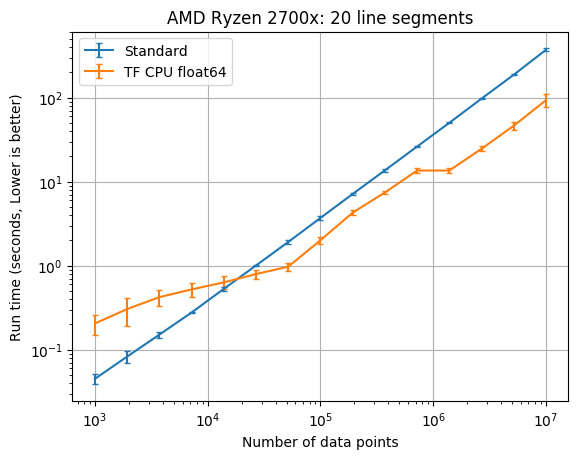
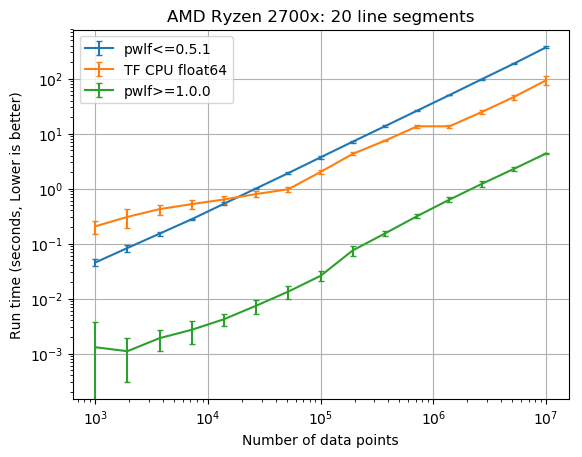
add initial new pwlf benchamrks

Changed region(s): [[0.0, 0.0, 0.9914, 0.9803], [0.0, 0.1838, 0.031, 0.4289], [0.6506, 0.4902, 0.6816, 0.5208]]

diff --git a/plot_results/compare_sp_ryzen_new.py b/plot_results/compare_sp_ryzen_new.py
@@ -1,0 +1,39 @@
+import numpy as np
+import matplotlib.pyplot as plt
+
+# factor for 90% coverage with 90% confidence using Normal distribution
+# with 10 samples from table XII in [1]
+# [1] Montgomery, D. C., & Runger, G. C. (2014). Applied statistics and
+# probability for engineers. Sixth edition. John Wiley & Sons.
+k = 2.535
+
+run_times = np.load('../bench_run_times/amd_ryzen_2700x/6_break_times.npy')
+n = np.load('../bench_run_times/amd_ryzen_2700x/n.npy')
+run_times1 = np.load('../bench_run_times/amd_ryzen_2700x/new_6_break_times.npy')
+
+run_times_means = run_times.mean(axis=2)
+run_times_stds = run_times.std(axis=2, ddof=1)
+run_times_means1 = run_times1.mean(axis=2)
+run_times_stds1 = run_times1.std(axis=2, ddof=1)
+
+
+plt.figure()
+plt.title('AMD Ryzen 2700x: 6 line segments')
+plt.grid()
+plt.errorbar(n, run_times_means[0], yerr=k*run_times_stds[0], capsize=2.0, label='pwlf<=0.5.1')
+plt.errorbar(n, run_times_means[1], yerr=k*run_times_stds[1], capsize=2.0, label='TF CPU float64')
+plt.errorbar(n, run_times_means1[0], yerr=k*run_times_stds1[0], capsize=2.0, label='pwlf>=1.0.0')
+
+# plt.errorbar(n, run_times_means1[1], yerr=k*run_times_stds1[1], capsize=2.0, label='TF CPU float32')
+
+plt.xlabel('Number of data points')
+plt.ylabel('Run time (seconds, Lower is better)')
+plt.semilogx()
+plt.semilogy()
+plt.legend()
+plt.savefig('../figs/ryz_six_breaks_new.png', bbox_inches='tight')
+
+print('TF float64 1e7 time faster', run_times_means[0][-1]/run_times_means1[0][-1])
+# print('TF float32 1e7 time faster', run_times_means[0][-1]/run_times_means1[1][-1])
+
+plt.show()

diff --git a/plot_results/compare_sp_ryzen_20_new.py b/plot_results/compare_sp_ryzen_20_new.py
@@ -1,0 +1,37 @@
+import numpy as np
+import matplotlib.pyplot as plt
+
+# factor for 90% coverage with 90% confidence using Normal distribution
+# with 10 samples from table XII in [1]
+# [1] Montgomery, D. C., & Runger, G. C. (2014). Applied statistics and
+# probability for engineers. Sixth edition. John Wiley & Sons.
+k = 2.535
+
+run_times = np.load('../bench_run_times/amd_ryzen_2700x_20/6_break_times.npy')
+n = np.load('../bench_run_times/amd_ryzen_2700x_20/n.npy')
+run_times1 = np.load('../bench_run_times/amd_ryzen_2700x_20/new_20_break_times.npy')
+
+run_times_means = run_times.mean(axis=2)
+run_times_stds = run_times.std(axis=2, ddof=1)
+run_times_means1 = run_times1.mean(axis=2)
+run_times_stds1 = run_times1.std(axis=2, ddof=1)
+
+
+plt.figure()
+plt.title('AMD Ryzen 2700x: 20 line segments')
+plt.grid()
+plt.errorbar(n, run_times_means[0], yerr=k*run_times_stds[0], capsize=2.0, label='pwlf<=0.5.1')
+plt.errorbar(n, run_times_means[1], yerr=k*run_times_stds[1], capsize=2.0, label='TF CPU float64')
+plt.errorbar(n, run_times_means1[0], yerr=k*run_times_stds1[0], capsize=2.0, label='pwlf>=1.0.0')
+
+plt.xlabel('Number of data points')
+plt.ylabel('Run time (seconds, Lower is better)')
+plt.semilogx()
+plt.semilogy()
+plt.legend()
+plt.savefig('../figs/ryz_twenty_breaks.png', bbox_inches='tight')
+
+print('TF float64 1e7 time faster', run_times_means[0][-1]/run_times_means1[0][-1])
+# print('TF float32 1e7 time faster', run_times_means[0][-1]/run_times_means1[1][-1])
+
+plt.show()

diff --git a/bench_run_times/plot_new_results.py b/bench_run_times/plot_new_results.py
@@ -1,0 +1,38 @@
+import numpy as np
+import matplotlib.pyplot as plt
+
+# factor for 90% coverage with 90% confidence using Normal distribution
+# with 10 samples from table XII in [1]
+# [1] Montgomery, D. C., & Runger, G. C. (2014). Applied statistics and
+# probability for engineers. Sixth edition. John Wiley & Sons.
+k = 2.535
+
+
+run_strs = 'amd_ryzen_2700x_20/6_break_times.npy'
+new_run_strs = 'amd_ryzen_2700x_20/new_20_break_times.npy'
+n_strs = 'amd_ryzen_2700x/n.npy'
+j = 1
+run_times = np.load(run_strs)
+new_runs = np.load(new_run_strs)
+n = np.load(n_strs)
+
+run_times_means = run_times.mean(axis=2)
+run_times_stds = run_times.std(axis=2, ddof=1)
+new_times_means = new_runs.mean(axis=2)
+new_times_stds = new_runs.std(axis=2, ddof=1)
+
+plt.figure()
+plt.grid()
+plt.errorbar(n, run_times_means[0], yerr=k*run_times_stds[0], capsize=2.0, label='Numpy')
+# plt.errorbar(n, run_times_means[1], yerr=k*run_times_stds[1], capsize=2.0, label='TF GPU')
+plt.errorbar(n, run_times_means[j], yerr=k*run_times_stds[j], capsize=2.0, label='TF CPU')
+plt.errorbar(n, new_times_means[0], yerr=k*new_times_stds[0], capsize=2.0, label='New PWLF')
+
+plt.xlabel('Number of data points')
+plt.ylabel('Run time (seconds, Lower is better)')
+plt.semilogx()
+plt.semilogy()
+plt.legend()
+
+
+plt.show()

diff --git a/sine_benchmark_fixed_twenty_break_points_sp.py b/sine_benchmark_fixed_twenty_break_points_sp.py
@@ -33,5 +33,5 @@ for i, n_data in enumerate(n):
         # run_times[0, i, j] = t1 - t0
         run_times[1, i, j] = t3 - t2
 
-np.save('bench_run_times/6_break_times.npy', run_times)
+np.save('bench_run_times/20_sp_break_times.npy', run_times)
 np.save('bench_run_times/n.npy', n)

diff --git a/sine_benchmark_fixed_six_break_points_sp.py b/sine_benchmark_fixed_six_break_points_sp.py
@@ -33,5 +33,5 @@ for i, n_data in enumerate(n):
         # run_times[0, i, j] = t1 - t0
         run_times[1, i, j] = t3 - t2
 
-np.save('bench_run_times/6_break_times.npy', run_times)
+np.save('bench_run_times/6_sp_break_times.npy', run_times)
 np.save('bench_run_times/n.npy', n)

diff --git a/sine_benchmark_fixed_twenty_break_points.py b/sine_benchmark_fixed_twenty_break_points.py
@@ -32,5 +32,5 @@ for i, n_data in enumerate(n):
         run_times[0, i, j] = t1 - t0
         run_times[1, i, j] = t3 - t2
 
-np.save('bench_run_times/6_break_times.npy', run_times)
+np.save('bench_run_times/20_break_times.npy', run_times)
 np.save('bench_run_times/n.npy', n)
